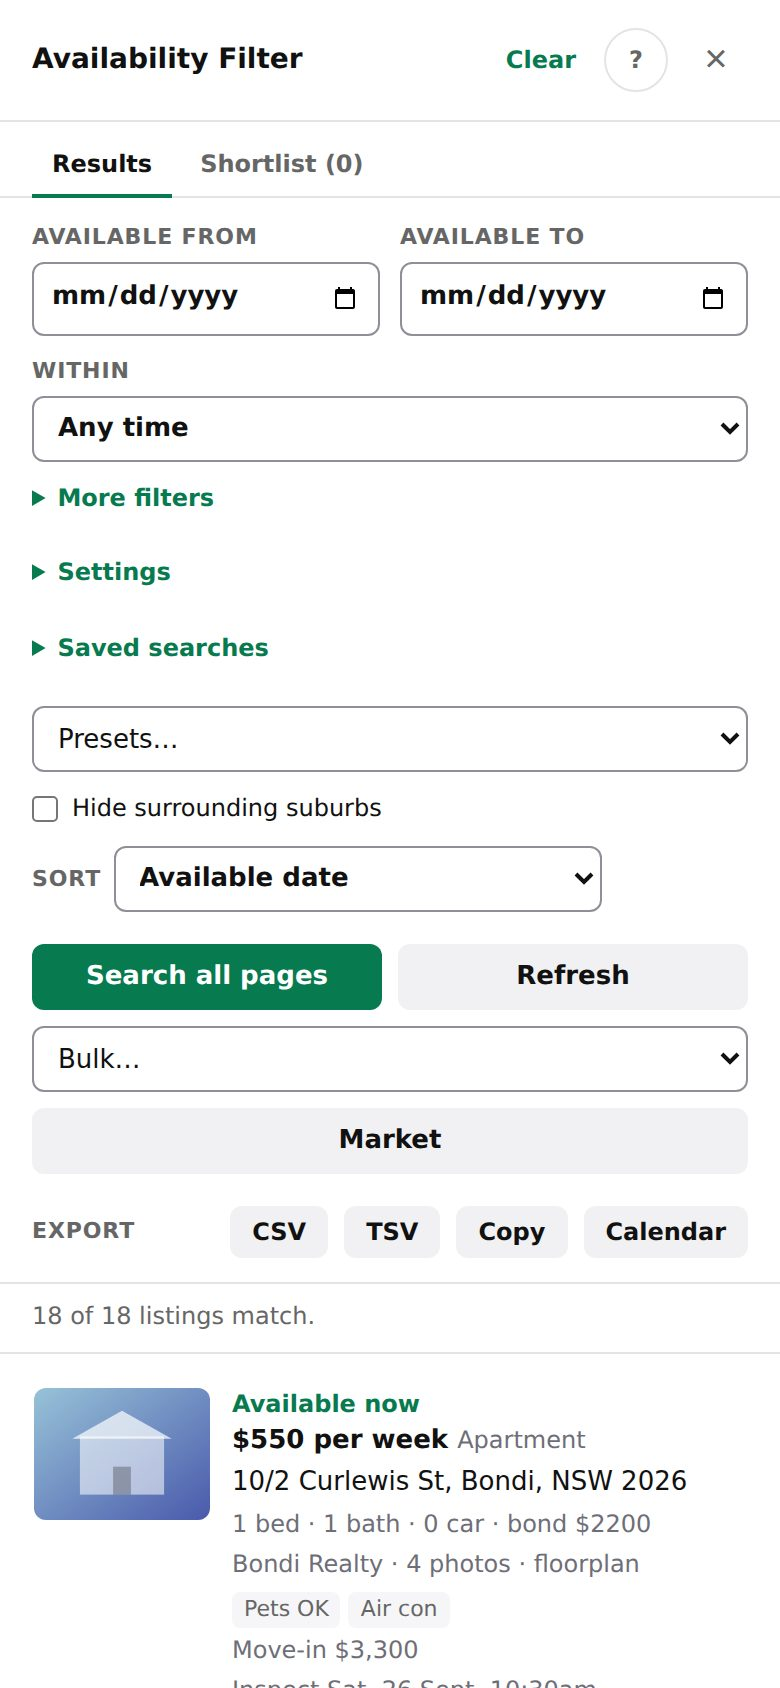
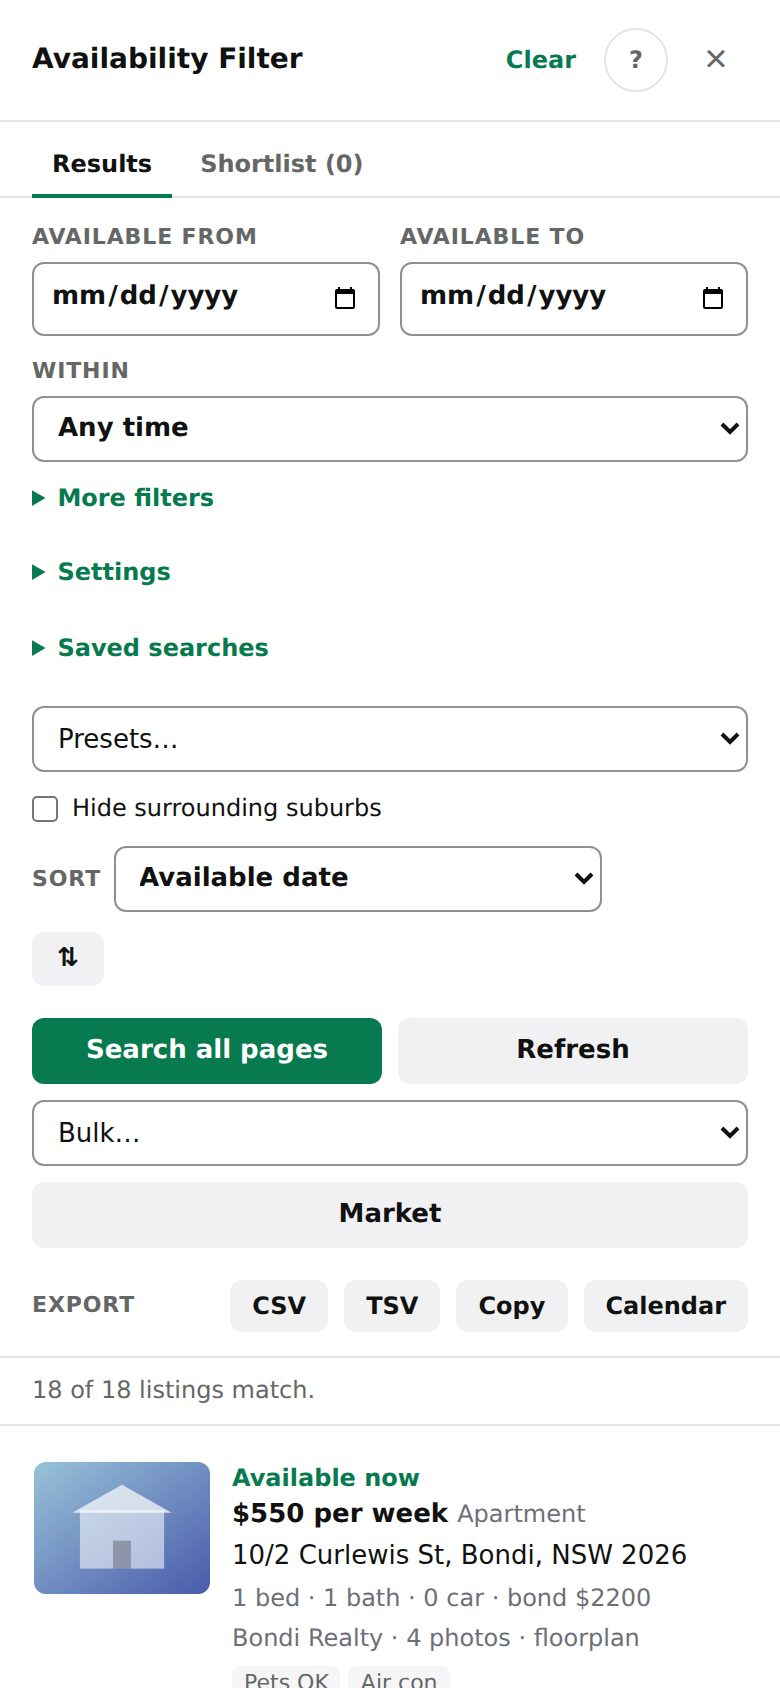
Bump 2.22.0; changelog, readme, what's new, screenshots

diff --git a/rea-availability-filter.user.js b/rea-availability-filter.user.js
@@ -1,7 +1,7 @@
 // ==UserScript==
 // @name         REA Availability Filter
 // @namespace    https://github.com/cpwillis/rea-enhancement
-// @version      2.21.2
+// @version      2.22.0
 // @description  Availability-date filtering and sorting, extra filters, cross-page merging, on-card availability badges and CSV/TSV export for realestate.com.au rental searches.
 // @author       cpwillis
 // @homepageURL  https://github.com/cpwillis/rea-enhancement
@@ -4374,11 +4374,10 @@ ${r.note ? `<div class="n">${esc(r.note)}</div>` : ''}${checklist.length ? `<div
   const DRAWER_MIN = 360, DRAWER_MAX = 900, DRAWER_TWO_COL = 760;
   // Installs auto-update silently, so the drawer says once what changed (lint keeps this in step
   // with @version and the changelog). A first install records the version without a note.
-  const WHATS_NEW = { version: '2.21.0', items: [
-    'Expand the drawer near full screen with ⤢ (or e) to see results in a grid.',
-    'Pick several property types at once under More filters.',
-    'Plan a day now suggests a route; "Inspections I can make" keeps weekend or after-5pm open homes.',
-    'A search that fails partway keeps what it read, with Resume.',
+  const WHATS_NEW = { version: '2.22.0', items: [
+    'Compact list (d) fits twice as many listings; p shows a large photo.',
+    'Drag the drawer\'s edge to resize it; ⇅ reverses the sort.',
+    'Reviewed marks (r, or moving on with j) and a "Not reviewed yet" filter keep your place across visits.',
   ] };
   const SEEN_KEY = `${TOOL_PREFIX}seen-version`;
   const verNum = (v) => String(v || '0').split('.').reduce((n, x) => n * 1000 + (+x || 0), 0);

diff --git a/README.md b/README.md
@@ -26,7 +26,7 @@ Updates are automatic: Tampermonkey checks `@updateURL` (the file on `main`) and
 - **Other places**: up to 3 named points (work, school, partner) with km to each and a "Nearest to all places" sort.
 - **Distance** from any point: paste coordinates or a Google Maps link (right-click a spot, copy the numbers). Shows km on every listing, filters by max km, sorts nearest first. Straight-line distance, no lookups.
 - **Hide an agency** you've ruled out (undo, or unhide later); photo count and "Has a floorplan" filter.
-- Sort by available date, price, price per bed, best value vs median, **best match**, nearest, most beds, next inspection, newest first. Best match is a 0-100 score from rent vs your budget (or the median), timing vs your "from" date, distance and move-in cost, weighted as you choose in Settings; hover it to see the parts.
+- Sort (⇅ reverses it; listings without the value stay last) by available date, price, price per bed, best value vs median, **best match**, nearest, most beds, next inspection, newest first. Best match is a 0-100 score from rent vs your budget (or the median), timing vs your "from" date, distance and move-in cost, weighted as you choose in Settings; hover it to see the parts.
 - **Move-in cost** (bond + 2 weeks' rent) on every listing; bonds above 4 weeks' rent are flagged.
 - **Lease overlap**: with your current lease end set, each listing shows the days of double rent (and cost) or the nights you'd need to cover, sortable.
 - **Lease term** and **Apply via** portal picked out of the text; filter out leases shorter than you need; availability read from the description when REA's date is missing.
@@ -39,9 +39,13 @@ Updates are automatic: Tampermonkey checks `@updateURL` (the file on `main`) and
 - **Active filter chips** show what's filtering and how many listings each removes; click one to drop it.
 - **Presets**: save filter sets by name, or one per search that applies automatically when you come back.
 - **Bulk actions** (shortlist or hide everything shown, set a status across the shortlist) with Undo.
-- **Expand** (⤢ in the drawer's header, or e): near full screen, with the filters in a left column and results in a grid of cards; remembered until you shrink it again.
+- **Expand** (⤢ in the drawer's header, or e): near full screen, with the filters in a left column and results in a grid of cards; remembered until you shrink it again. Or drag the drawer's left edge to any width (two results per row from 760px).
+- **Compact list** (Settings, or d): small photos and the key facts, about twice as many listings on screen.
+- **Photo peek**: p or Space (or hover a thumbnail) shows a large photo; j/k flip through listings with it open.
+- **Reviewed**: going past a listing with j, pressing r, or shortlisting, hiding or noting it marks it reviewed; **Not reviewed yet** (More filters) and "reviewed 34 of 150" in the status line keep your place across visits.
+- **Hidden for the price?** Give "price" as the reason and the listing comes back, tagged "$110 cheaper since you hid it", if its rent drops. Reasons can be set or changed later from a hidden listing's ⋯ menu.
 - **Inspections I can make**: keep only listings with an open home on a weekend or after 5pm.
-- **Keyboard**: j/k move, s shortlist, h hide, n note, o open, e expand, / keywords, ? help; Alt+Shift+F toggles the drawer.
+- **Keyboard**: j/k move, g/G first/last, PgUp/PgDn by 5, s shortlist, h hide, u undo, n note, r reviewed, p photo, 1–5 application status, o open, t Results/Shortlist, f filters, d compact, e expand, / keywords, ? help; Alt+Shift+F toggles the drawer.
 - Walks every results page of the current search (max 20), dedupes, and says when a search is too broad to read fully.
 
 **On REA's own result cards**

diff --git a/CHANGELOG.md b/CHANGELOG.md
@@ -2,6 +2,17 @@
 
 Versions match the userscript's `@version`; installs auto-update from `main` when it increases.
 
+## 2.22.0
+
+- **Compact list** (Settings, or d): small photos and the key facts only, so about twice as many listings fit on screen; a listing's buttons appear when you point at it or move to it.
+- **Photo peek**: p or Space (or hovering a thumbnail) shows the photo large beside the drawer; j/k flip through listings with it open, Esc closes it.
+- **Reviewed**: moving past a listing with j, pressing r, or shortlisting, hiding or noting it marks it reviewed. **Not reviewed yet** under More filters, "reviewed 34 of 150" in the status line, and "Mark all shown reviewed" in Bulk let a long triage pick up where you left off, even on another day.
+- **Reverse sort** (⇅ next to Sort): highest rent first, latest available first and so on; listings without the value (eg "Contact agent") stay last.
+- **Resizable drawer**: drag its left edge (or use the arrow keys on it) to any width from 360 to 900px; from 760px results show two per row. Remembered.
+- **Hidden for the price, now cheaper**: a listing you hid with the reason "price" comes back, tagged "$110 cheaper since you hid it", if its rent drops (Hide again to dismiss it at the new rent). Other hidden listings that got cheaper are counted in the status line. A hidden listing's ⋯ menu now sets or changes its reason.
+- **More keys**: u undo, 1–5 application status, g/G first/last, PgUp/PgDn by five, t Results/Shortlist.
+- Screen readers hear each result as "12 of 150: $690 per week, 805/34 Wentworth St…", and the listing link by its price, address and date instead of the whole card.
+
 ## 2.21.2
 
 - Side drawer, now that it scrolls as one page: the header, tabs and status line stay at the top, so the listing count, **Undo** and the hide reasons are visible however far down you are. **↑ Filters** (or f) jumps back to the filters, switching between Results and Shortlist keeps your place in each, and ? scrolls the keyboard help into view.
